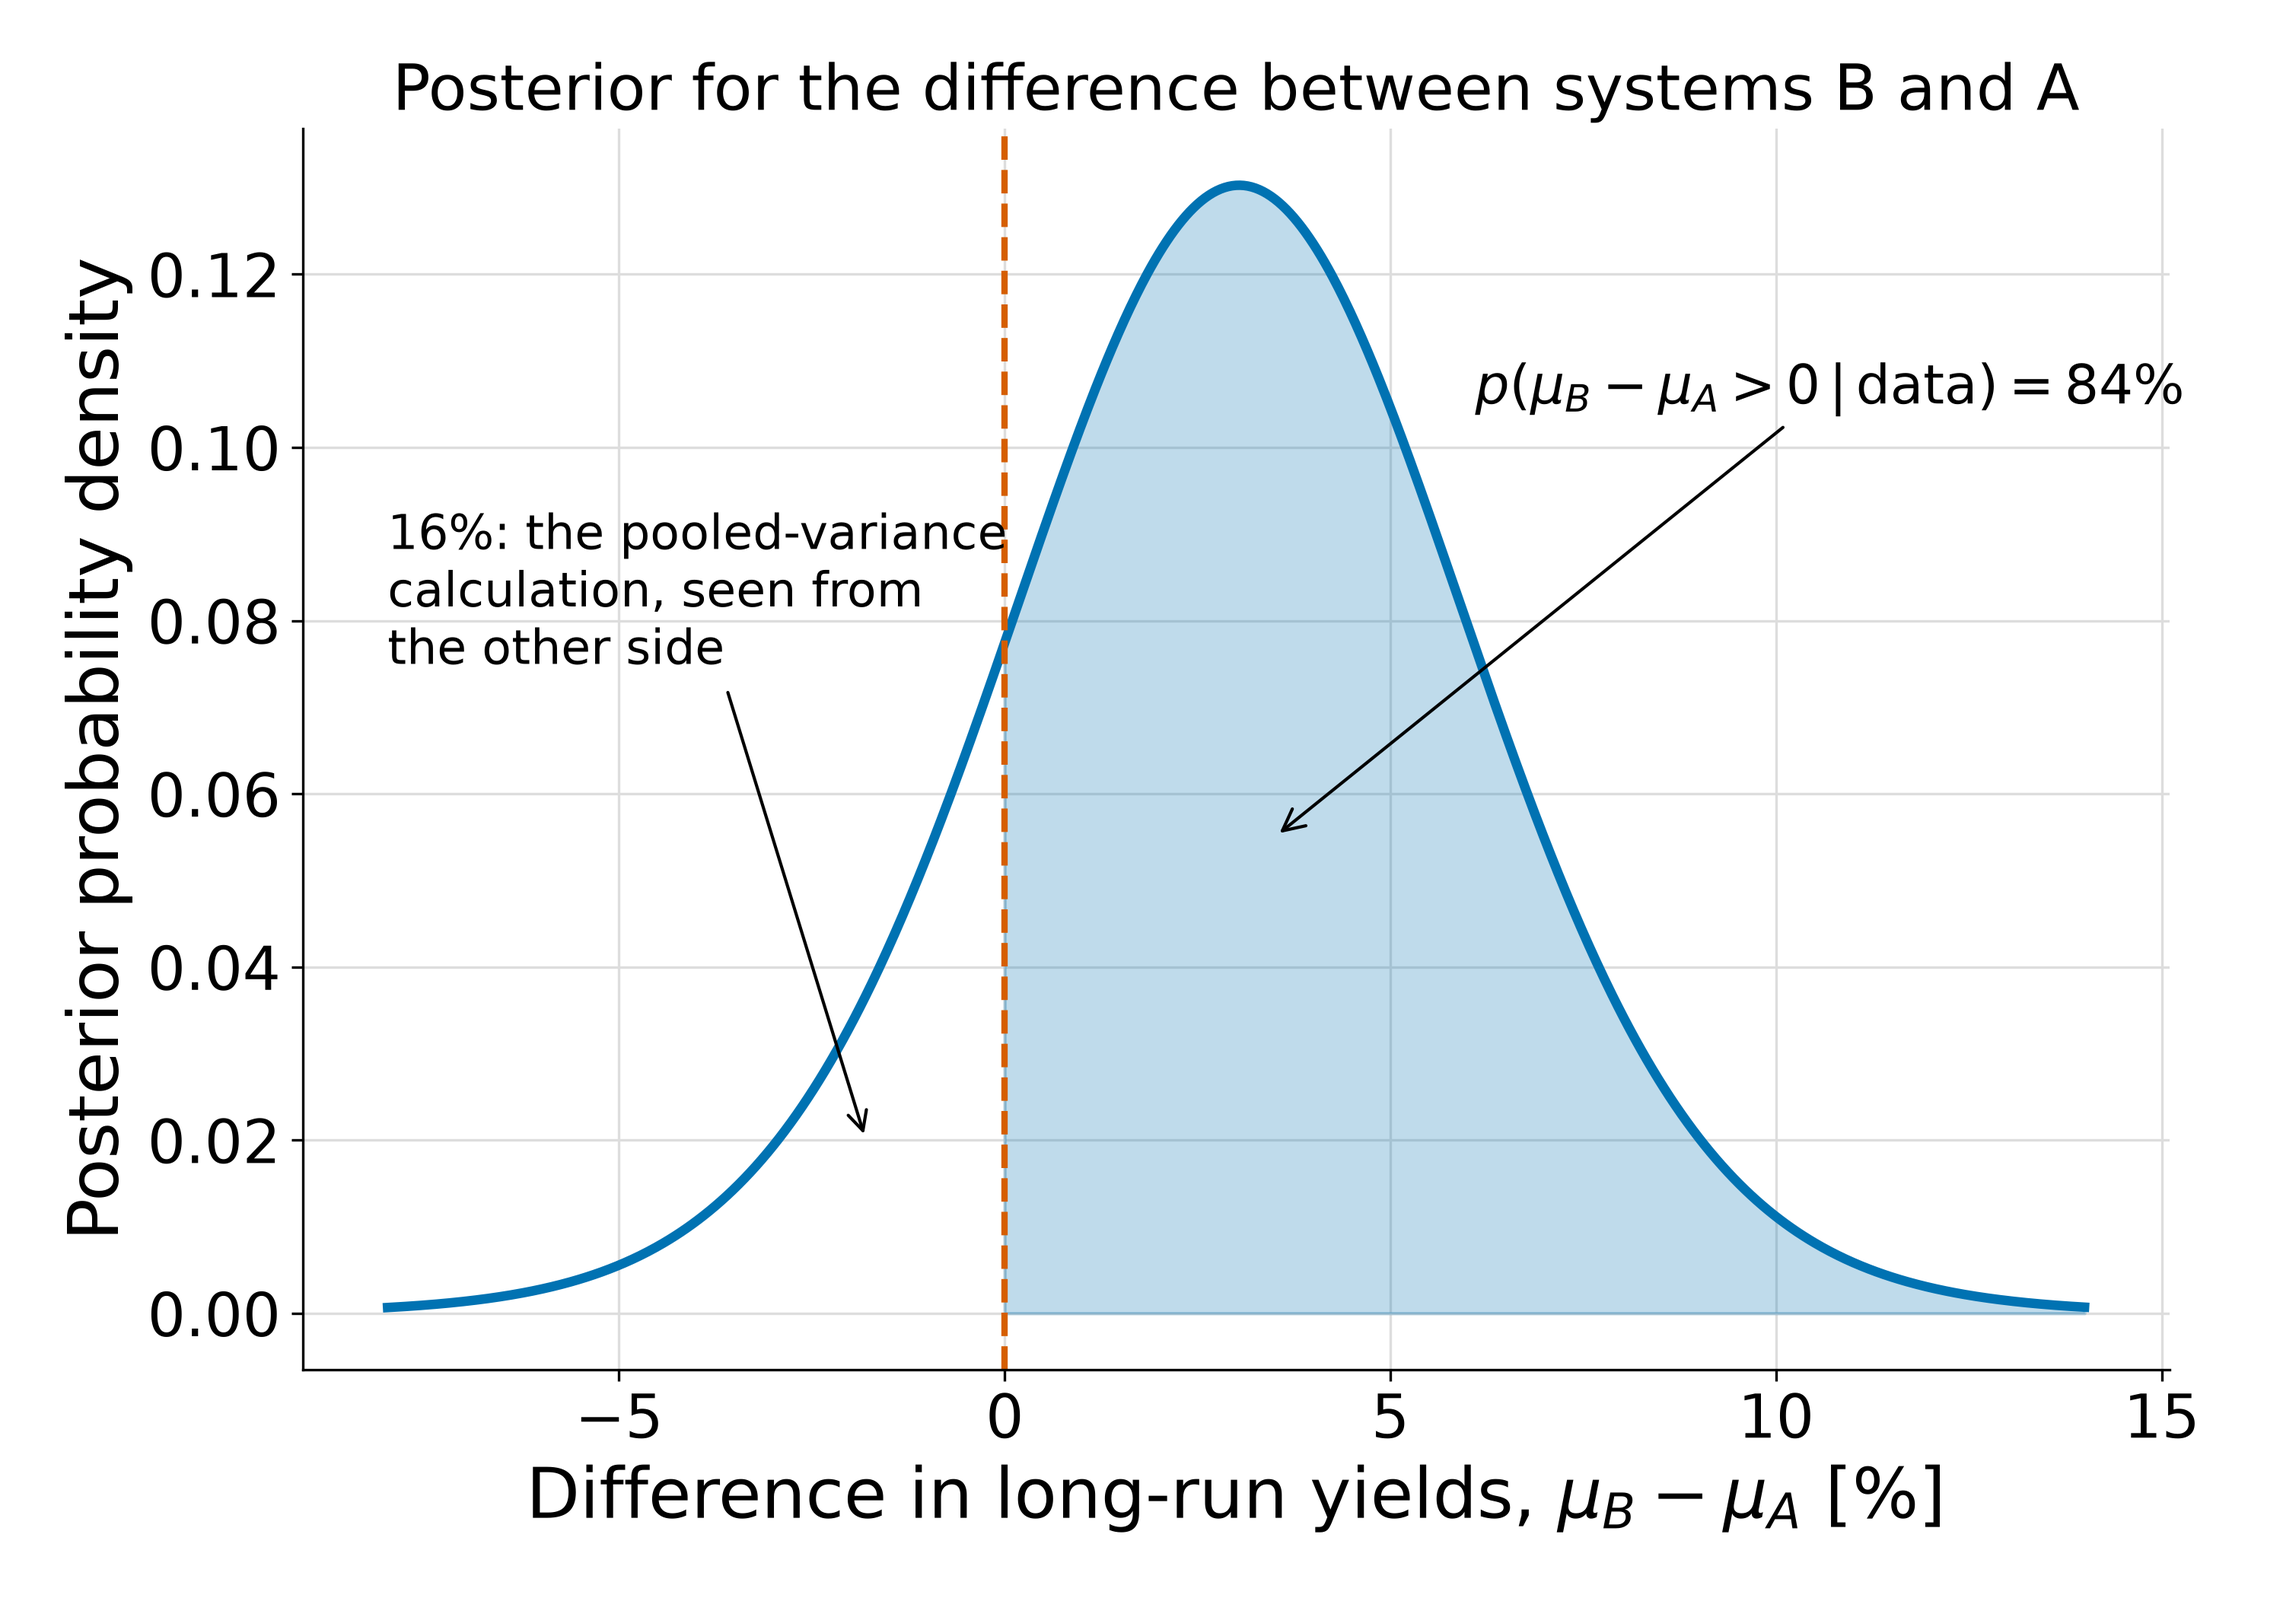
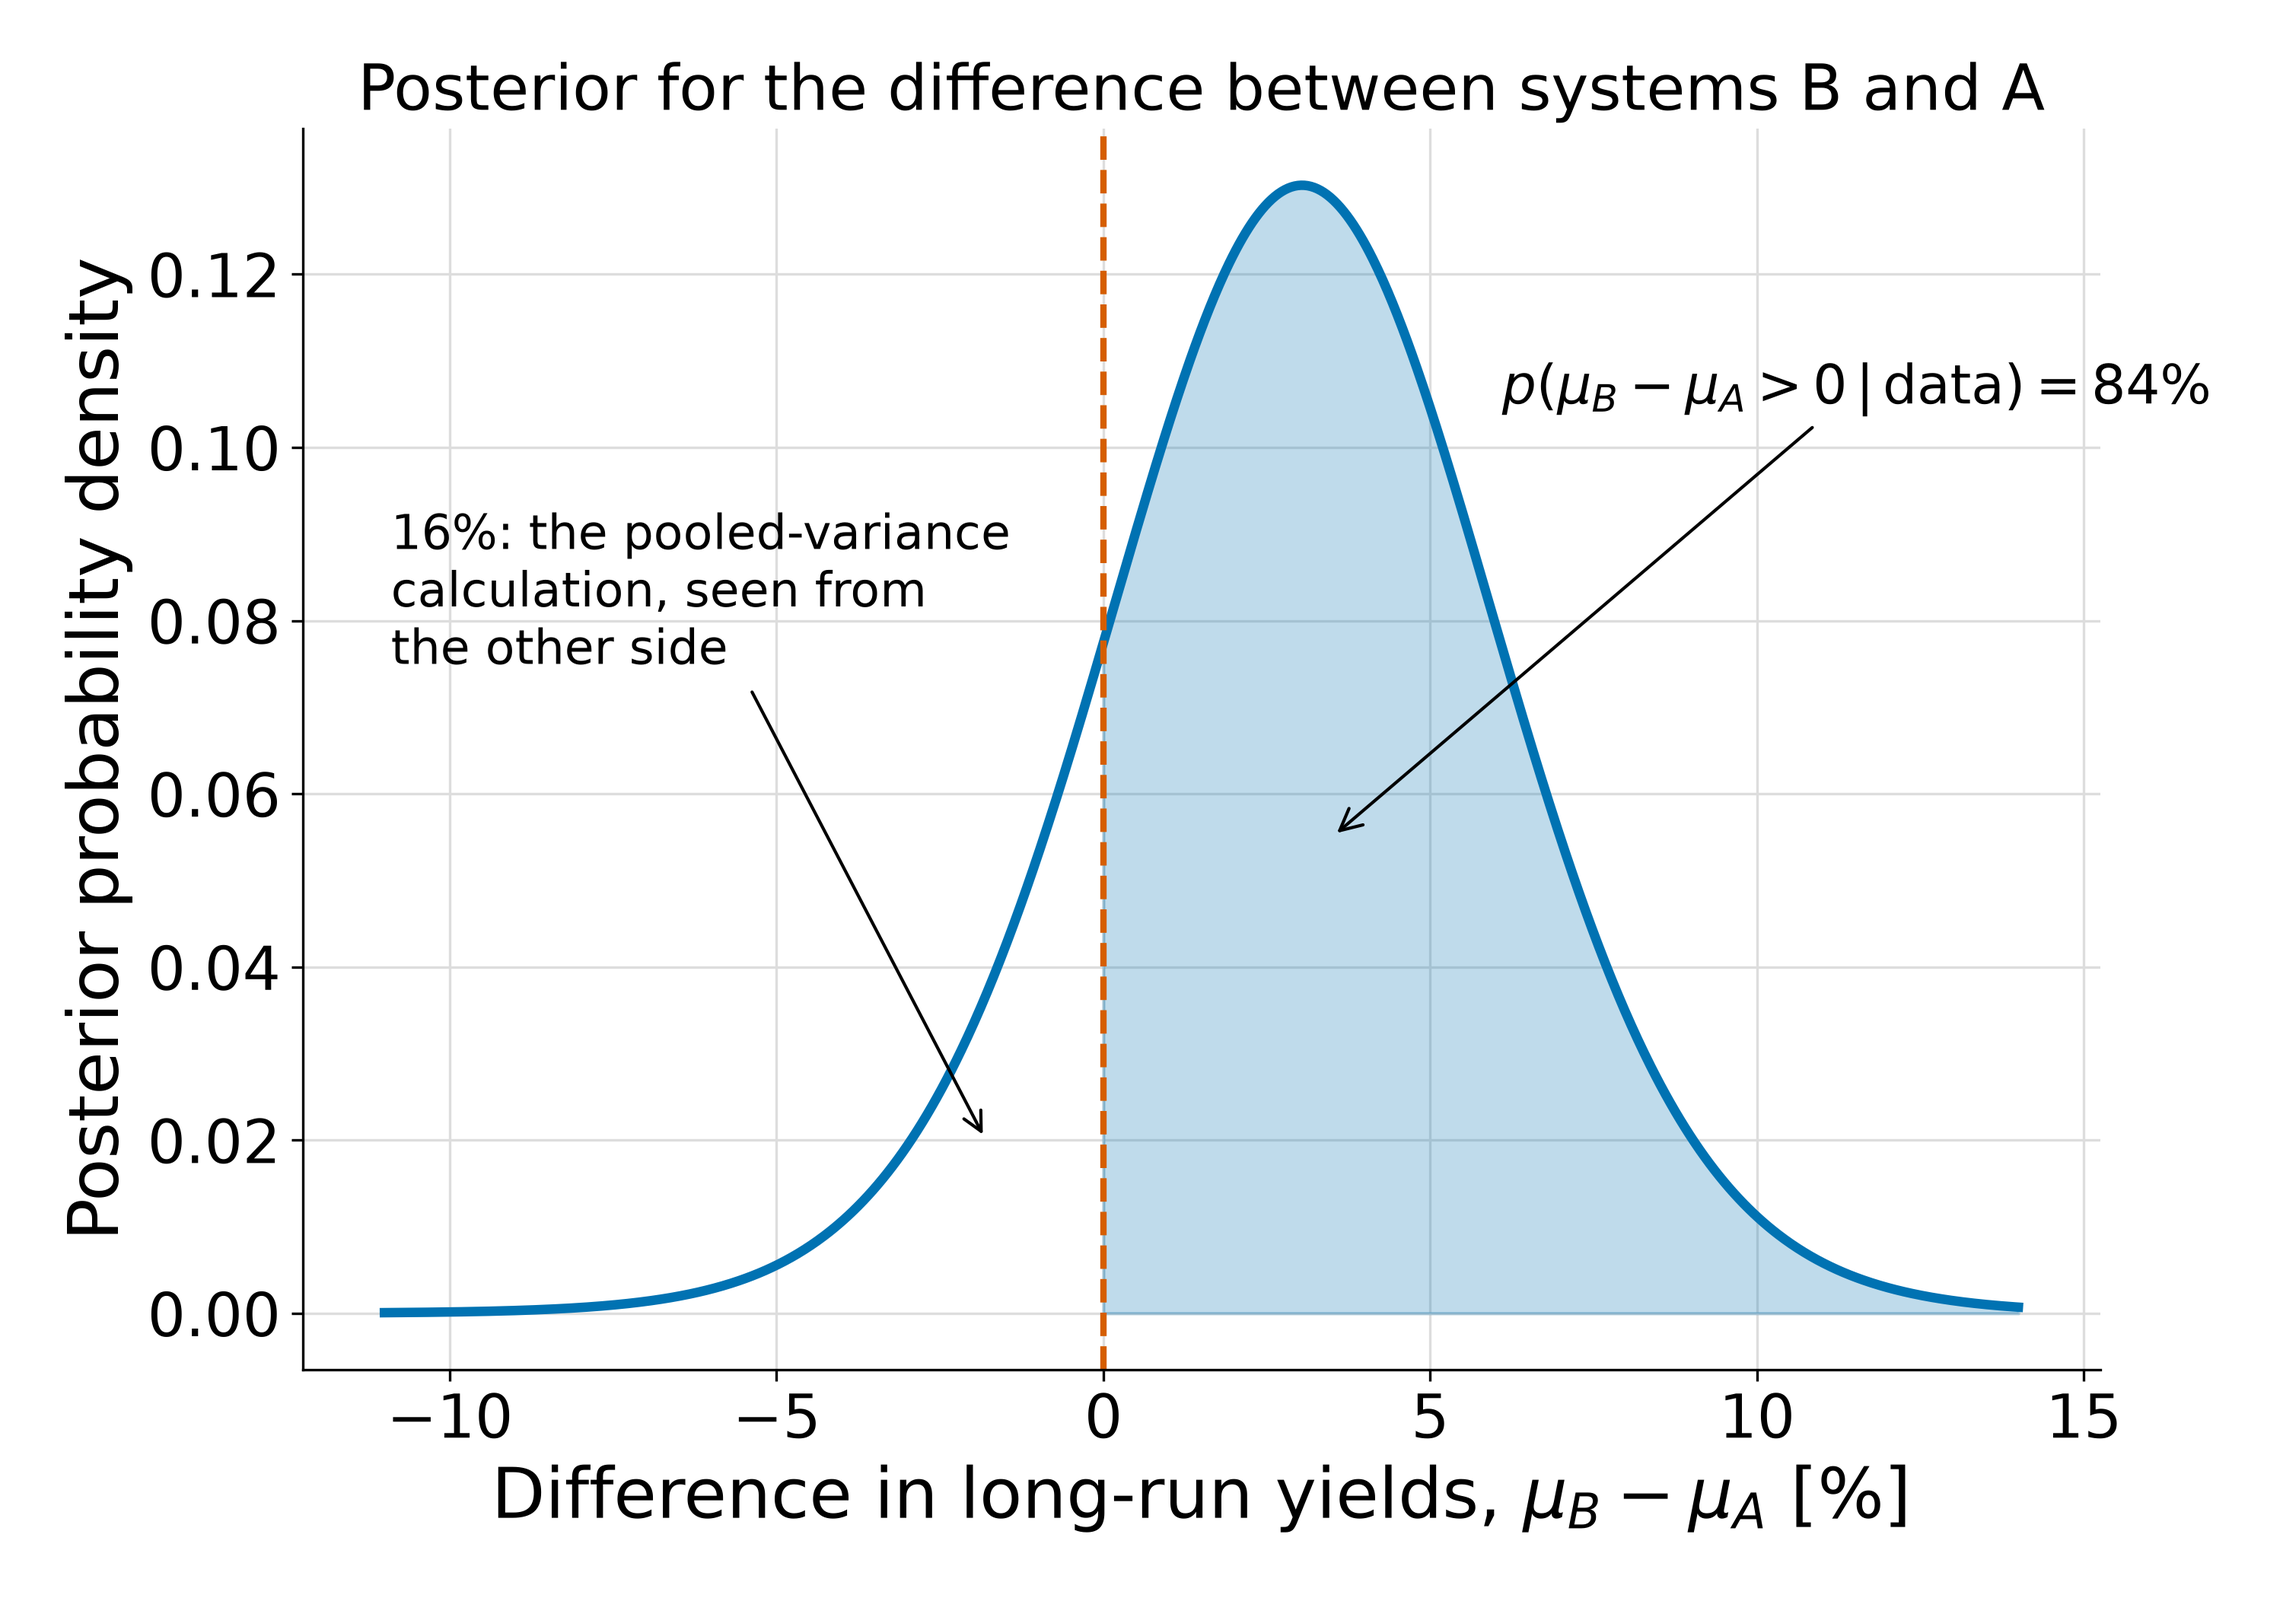
Reposition two annotations in the Bayesian univariate figures
The posterior-mean note in the informative-prior panel moves to the
right of the curves, away from the legend, and the pooled-variance note
in the yield-difference figure moves further left, clearing the rising
edge of the posterior. The x-range of the yield-difference plot is
widened slightly to make room.

Claude-Session: https://claude.ai/code/session_01VxiMu6fAsT6zr4QdzR3oGD

diff --git a/univariate/bayesian_univariate_figures.py b/univariate/bayesian_univariate_figures.py
@@ -135,9 +135,9 @@ def prior_likelihood_posterior(outdir: pathlib.Path) -> None:
     ax.axvline(PRIOR_MEAN, color=GREY, linewidth=1, linestyle=":")
     ax.axvline(xbar, color=ORANGE, linewidth=1, linestyle=":")
     ax.annotate(
-        "posterior mean = 19.5,\nbetween 18 and 20",
-        xy=(m_post - s_post, stats.norm.pdf(s_post, 0, s_post)),
-        xytext=(12.3, 0.22), fontsize=15,
+        "posterior mean\n19.5: between\n18 and 20",
+        xy=(m_post + s_post, stats.norm.pdf(s_post, 0, s_post)),
+        xytext=(25.8, 0.30), fontsize=15, ha="right",
         arrowprops=dict(arrowstyle="->", color="black"),
     )
     ax.text(m_post, 0.05, "95%", ha="center", fontsize=15, color=BLUE)
@@ -187,7 +187,7 @@ def sequential_updating(outdir: pathlib.Path) -> None:
 
 def yield_difference_posterior(outdir: pathlib.Path) -> None:
     centre, scale, df = 3.04, 3.02, 18
-    d = np.linspace(-8, 14, 881)
+    d = np.linspace(-11, 14, 1001)
     density = stats.t.pdf((d - centre) / scale, df) / scale
 
     fig, ax = plt.subplots(figsize=(10, 7))
@@ -203,7 +203,7 @@ def yield_difference_posterior(outdir: pathlib.Path) -> None:
     )
     ax.annotate(
         "16%: the pooled-variance\ncalculation, seen from\nthe other side",
-        xy=(-1.8, 0.02), xytext=(-8.0, 0.075), fontsize=15,
+        xy=(-1.8, 0.02), xytext=(-10.9, 0.075), fontsize=15,
         arrowprops=dict(arrowstyle="->", color="black"),
     )
     ax.set_xlabel(r"Difference in long-run yields, $\mu_B - \mu_A$ [%]")
